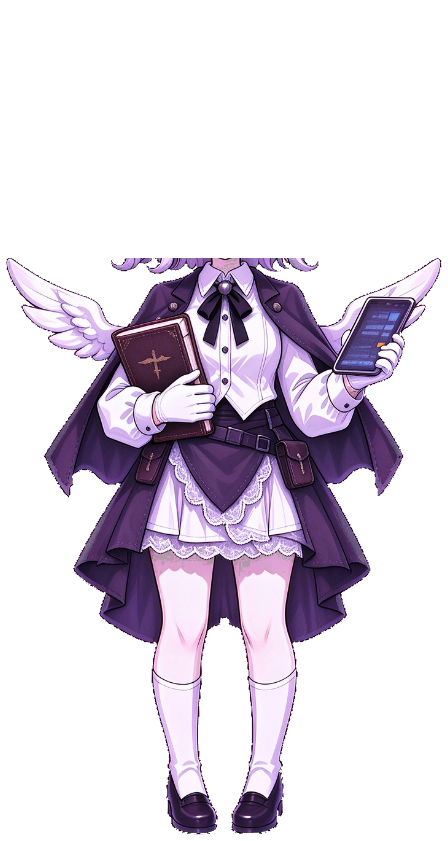
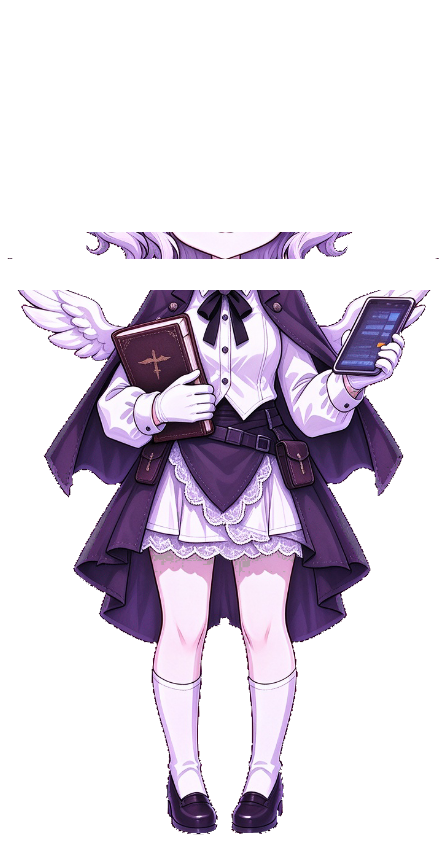
[codex] fix: 修复头身切缝过画

Changed region(s): [[0.1875, 0.2782, 0.7812, 0.371], [0.0, 0.3092, 0.0938, 0.3401], [0.9375, 0.3092, 1.0, 0.3401]]

diff --git a/tools/build-pet-layers.js b/tools/build-pet-layers.js
@@ -27,7 +27,8 @@ const PIVOT = { x: 224, y: NECK_CUT_Y };       // 头部旋转轴心（脖子根
 const EYE_RECT = { x0: 145, y0: 152, x1: 303, y1: 215 };   // 双眼合并区域
 const MOUTH_RECT = { x0: 202, y0: 216, x1: 248, y1: 247 }; // 嘴部区域
 const BODY_PAD_TOP = 232;                      // 身体层向上补绘的高度（头部转动时填缝）
-const HEAD_EDGE = 9;                           // 头部轮廓柔性外扩半径，用于旋转时填缝
+const HEAD_OVERPAINT = 32;                     // 头部向下过画高度，旋转时覆盖切缝
+const HEAD_EDGE = 4;                           // 头部轮廓柔性外扩半径，用于抗锯齿
 
 function prepare(file, mode) {
   const png = U.readPNG(file);
@@ -87,6 +88,16 @@ console.log('[3/6] 拆分头部与身体…');
    之前按行取中心跨度，会把两侧离得较远的头发排除掉，那些头发留在身体层，
    歪头时与头部脱开、看起来像断了一块。改成连通填充后整头头发都归 head。 */
 const headMask = U.floodMask(O, PIVOT.x, Math.round(NECK_CUT_Y * 0.72), NECK_CUT_Y);
+const overpaintAlpha = new Map();
+for (let y = NECK_CUT_Y; y < Math.min(H, NECK_CUT_Y + HEAD_OVERPAINT); y++) {
+  const fade = 1 - (y - NECK_CUT_Y) / HEAD_OVERPAINT;
+  for (let x = 0; x < W; x++) {
+    const i = y * W + x;
+    if (O.data[i * 4 + 3] <= 8) continue;
+    headMask[i] = 1;
+    overpaintAlpha.set(i, fade);
+  }
+}
 
 let headCount = 0;
 for (let p = 0; p < W * H; p++) headCount += headMask[p];
@@ -97,16 +108,20 @@ const head = U.clone(O);
 U.applyMask(head, headMask);
 U.pasteRegion(head, CLOSED, EYE_RECT);
 U.expandEdge(head, headMask, HEAD_EDGE);
+for (const [i, fade] of overpaintAlpha) head.data[i * 4 + 3] = Math.round(head.data[i * 4 + 3] * fade);
 
 /* body 层：挖掉整个头部区域。
    之前 body 保留完整原图，歪头时底下的原头部会露出来，两套轮廓叠成虚影。
    挖掉后头只由 head 层提供，转动时不会再出现第二张脸。 */
 const body = U.clone(O);
 const bodyMask = new Uint8Array(W * H);
-for (let p = 0; p < W * H; p++) if (!headMask[p]) bodyMask[p] = 1;
+for (let p = 0; p < W * H; p++) {
+  const y = Math.floor(p / W);
+  if (!headMask[p] || (y >= BODY_PAD_TOP && y <= NECK_CUT_Y)) bodyMask[p] = 1;
+}
 U.applyMask(body, bodyMask);
 
-console.log(`    头部 ${headCount} px（外扩 ${HEAD_EDGE}px 柔性边）；身体层已挖去头部区域`);
+console.log(`    头部 ${headCount} px（下过画 ${HEAD_OVERPAINT}px，外扩 ${HEAD_EDGE}px）；身体层补绘 y=${BODY_PAD_TOP}..${NECK_CUT_Y - 1}`);
 
 console.log('[4/6] 差分提取眼睛与嘴巴…');
 /* 把全画布掩码裁成与小图层同尺寸，用于「只保留变化像素」 */
